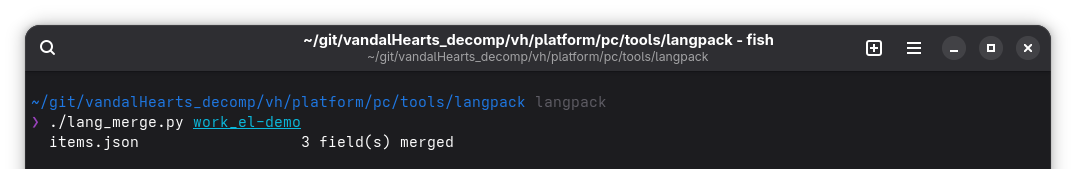
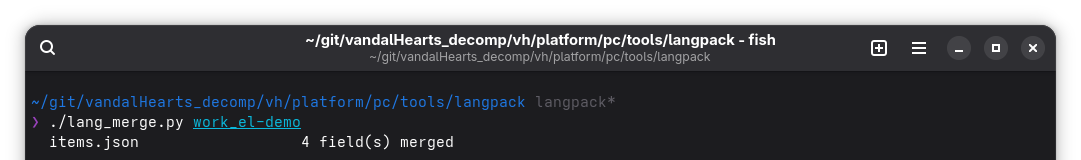
langpack: harness determinism + build-recovery notes + refreshed screenshot
raster_check.sh now pins VH_LANG/VH_LANGPACK/VH_HDPACK in both record and
replay: a language pack persisted in vandalhearts.ini legitimately patches
the F_WD glyph-sheet uploads, which false-FAILed the golden-image check
(bit us with ru-gen). With the pin, the langpack branch replays the
original 2026-08-03 baseline signature exactly -- no re-baseline needed,
and "inert without a pack" is now regression-tested.

decomp-build skill: document that top-level `make clean` deletes the four
hand-generated assets/*.inc (splat does not regenerate them) + the proven
regeneration recipe from SLUS_004.47.

quickstart-04-merge.png: re-captured (the old image showed a desynced
3-fields-merged output; the correct run merges 4), tIME chunk stripped to
match the other quickstart images' metadata profile.

diff --git a/.claude/skills/decomp-build/SKILL.md b/.claude/skills/decomp-build/SKILL.md
@@ -188,6 +188,17 @@ before copying blindly, especially the `toolchain/bin` path. `make extract` itse
 fails because it unconditionally runs the still-missing `sortSymbols.py` first — invoke
 `splat` directly instead, as above, until that script is sourced or the Makefile is changed.)
 
+### ⚠ `make clean` DELETES the hand-made `.inc` files (bit us 2026-08-09)
+
+Top-level `clean` is `rm -rf asm assets build` — and `assets/` holds the 4 hand-generated
+`.inc` files described below, which `splat` does NOT regenerate. After a `make clean`, a
+rebuild fails at `map_effects_08f524.c` on the missing `assets/801009bc.inc`. Recovery: re-run
+`splat` (for `asm/`), then regenerate the 4 `.inc` files from the verified `SLUS_004.47` with
+the recipe below (field-ordered flat initializers: MapTileModel = 88+18 s16 then 92 u8 per
+struct ×4 at 0x801009bc / ×1 at 0x80100e9c; 100 `(u8 *)0x...` pointers at 0x8010102c;
+128×9 raw u8 at 0x801012e4). Verified 2026-08-09: the regenerated set reproduces the
+byte-exact match from clean.
+
 ### The `assets/*.inc` gap (found and fixed 2026-07-10)
 
 4 files (`map_effects_08f524.c`, `map_effects_092320.c`, `text.c` ×2) do
